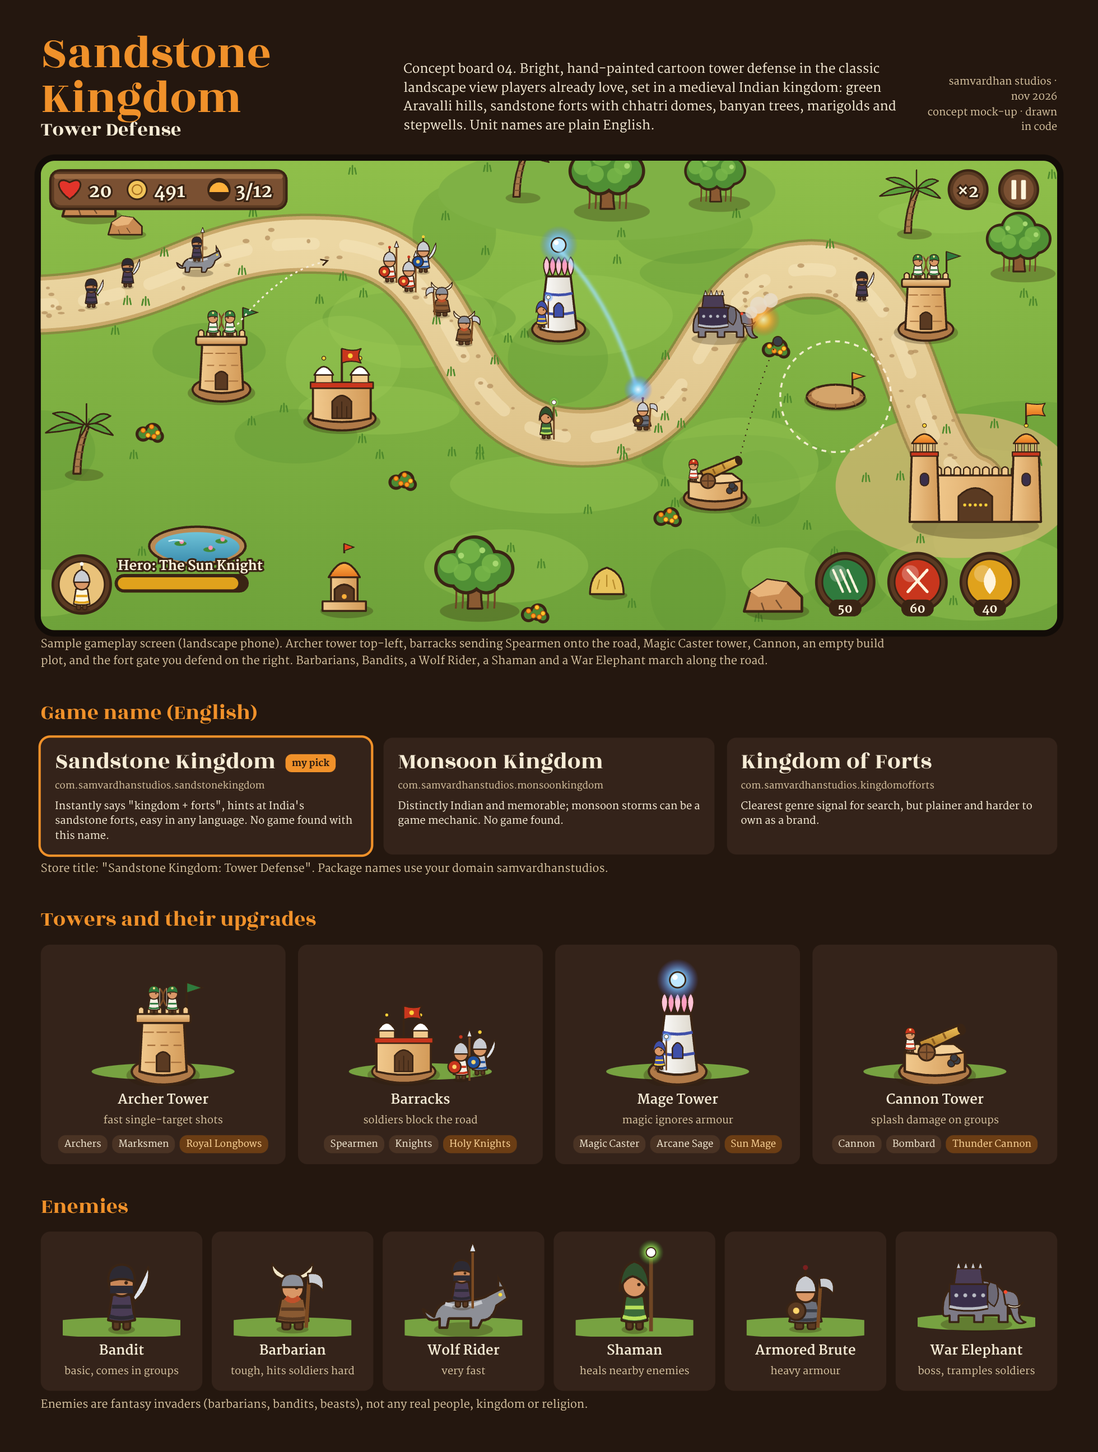
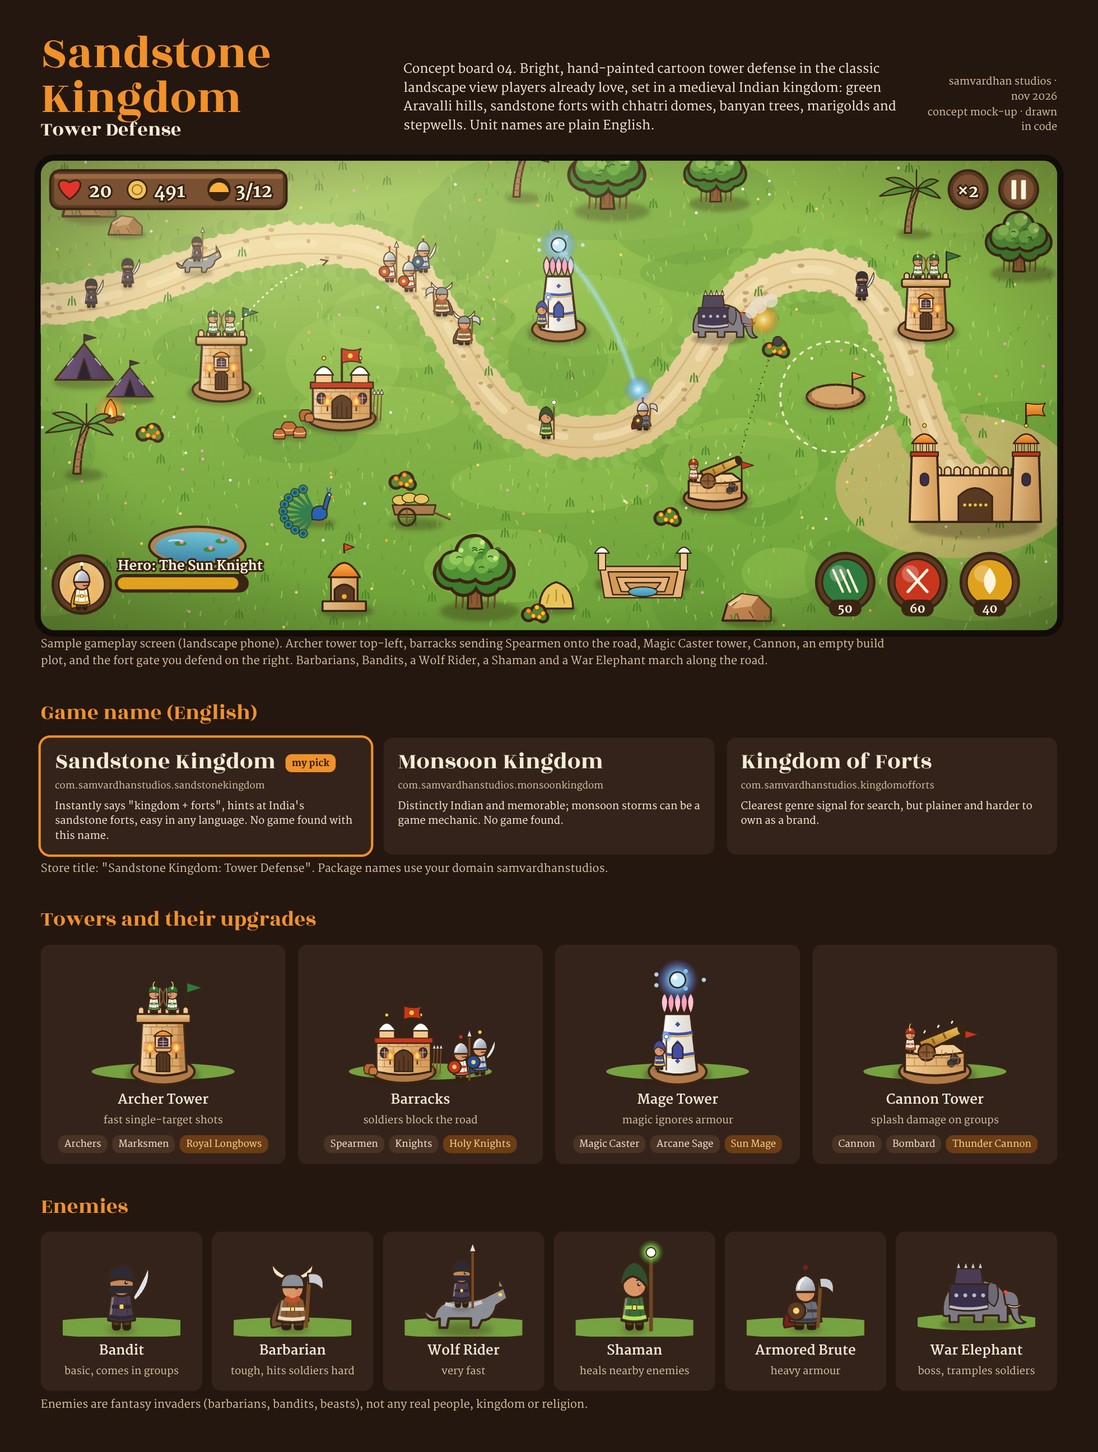
Add more detail to Sandstone Kingdom concept art
Grass, flowers, road edges and ruts, layered trees, stone blocks,
balconies, torches, lattice windows, character faces and capes,
peacock, stepwell, enemy camp, cart, pots, warm light and vignette.

Claude-Session: https://claude.ai/code/session_016KD6WBFLA1JJntey73zqeE

diff --git a/docs/style-boards/cartoon-td-concept.html b/docs/style-boards/cartoon-td-concept.html
@@ -113,10 +113,18 @@ function defs(svg) {
   rad('fire', [[0, '#fff3c4', 1], [0.4, '#ffb03a', 0.9], [1, '#e2461d', 0]]);
   const f = el('filter', { id: 'soft', x: '-20%', y: '-20%', width: '140%', height: '140%' }, d);
   el('feGaussianBlur', { stdDeviation: 1.2 }, f);
+  const b = el('filter', { id: 'blur', x: '-30%', y: '-60%', width: '160%', height: '220%' }, d);
+  el('feGaussianBlur', { stdDeviation: 1.8 }, b);
+  lin('steel', [[0, '#f4f6fa'], [0.5, '#c3c8d1'], [1, '#8d939e']], 1, 1);
+  lin('tent', [[0, '#6b4f7a'], [1, '#3f2f4c']], 1, 0);
+  const sun = el('radialGradient', { id: 'sunlight', cx: '22%', cy: '8%', r: '85%' }, d);
+  [[0, '#fff2c2', 0.38], [0.45, '#fff2c2', 0.08], [1, '#fff2c2', 0]].forEach(([o, c, op]) => el('stop', { offset: o, 'stop-color': c, 'stop-opacity': op }, sun));
+  const vig = el('radialGradient', { id: 'vignette', cx: '50%', cy: '50%', r: '75%' }, d);
+  [[0.6, '#1d1208', 0], [1, '#1d1208', 0.42]].forEach(([o, c, op]) => el('stop', { offset: o, 'stop-color': c, 'stop-opacity': op }, vig));
 }
 
 // ---------- primitives ----------
-const shadow = (p, x, y, rx, ry, op = 0.28) => el('ellipse', { cx: x, cy: y, rx, ry, fill: '#2a1d08', opacity: op }, p);
+const shadow = (p, x, y, rx, ry, op = 0.32) => el('ellipse', { cx: x, cy: y, rx, ry, fill: '#2a1d08', opacity: op, filter: 'url(#blur)' }, p);
 const outlined = (p, tag, attrs, sw = 1.6) => el(tag, { ...attrs, stroke: OUT, 'stroke-width': sw, 'stroke-linejoin': 'round' }, p);
 function blobCluster(p, circles, fill, hi) {
   // outlined union: stroked circles first, then fills on top
@@ -131,9 +139,13 @@ function banyan(p, x, y, s = 1) {
   const t = g(p, { transform: `translate(${x} ${y}) scale(${s})` });
   shadow(t, 4, 2, 30, 8);
   outlined(t, 'path', { d: 'M-5 0 Q-4 -14 -6 -24 L6 -24 Q4 -14 6 0 Z', fill: '#8a5a32' });
+  el('path', { d: 'M-2 -4 Q-3 -12 -1 -20 M2 -2 Q3 -10 1 -18', stroke: '#6e4524', 'stroke-width': 0.9, fill: 'none' }, t);
   [-14, -9, 10, 15].forEach((rx) => el('path', { d: `M${rx} -22 Q${rx + 1} -10 ${rx} 0`, stroke: '#6e4524', 'stroke-width': 1.4, fill: 'none' }, t));
-  blobCluster(t, [[-16, -30, 13], [0, -38, 16], [16, -30, 13], [-6, -24, 12], [9, -23, 11]], '#4f8f34', '#79b84a');
-  [[-10, -40], [6, -44], [16, -34]].forEach(([a, b]) => el('circle', { cx: a, cy: b, r: 2.2, fill: '#a7d870' }, t));
+  blobCluster(t, [[-18, -27, 12], [0, -33, 16], [18, -27, 12], [-8, -21, 11], [10, -20, 10]], '#3d7a2b');
+  blobCluster(t, [[-15, -32, 11], [0, -41, 14], [15, -33, 11], [-5, -30, 10], [8, -29, 10]], '#4f8f34', '#79b84a');
+  [[-14, -38, 5], [2, -48, 6], [14, -40, 5], [-4, -36, 4]].forEach(([a, b, r]) => el('circle', { cx: a, cy: b, r, fill: '#93c95a' }, t));
+  for (let i = 0; i < 9; i++) { const a = -18 + rnd() * 34, b = -46 + rnd() * 22; el('path', { d: `M${a} ${b} q2 -2 4 0`, stroke: '#2f6322', 'stroke-width': 0.9, fill: 'none' }, t); }
+  [[-10, -44], [6, -50], [16, -38]].forEach(([a, b]) => el('circle', { cx: a, cy: b, r: 1.8, fill: '#c6ec8c' }, t));
 }
 function palm(p, x, y, s = 1) {
   const t = g(p, { transform: `translate(${x} ${y}) scale(${s})` });
@@ -148,7 +160,10 @@ function rock(p, x, y, s = 1) {
   shadow(t, 3, 2, 22, 6);
   outlined(t, 'path', { d: 'M-20 2 L-16 -12 L-4 -20 L10 -18 L20 -8 L20 2 Z', fill: '#c88a52' }, 1.8);
   el('path', { d: 'M-16 -12 L-4 -20 L10 -18 L4 -10 L-10 -8 Z', fill: '#e8b47a' }, t);
-  el('path', { d: 'M2 -6 L6 0 M-8 -4 L-6 2', stroke: OUT, 'stroke-width': 1, fill: 'none', opacity: 0.6 }, t);
+  el('path', { d: 'M10 -18 L20 -8 L20 2 L8 2 L4 -10 Z', fill: '#a96e3e', opacity: 0.7 }, t);
+  el('path', { d: 'M2 -6 L6 0 M-8 -4 L-6 2 M-12 -10 L-8 -14', stroke: OUT, 'stroke-width': 1, fill: 'none', opacity: 0.6 }, t);
+  el('path', { d: 'M-14 -11 L-5 -17', stroke: '#fbe1b8', 'stroke-width': 1.4, 'stroke-linecap': 'round' }, t);
+  [[-12, 1], [16, 2]].forEach(([a, b]) => el('path', { d: `M${a} ${b} l-1 -4 M${a + 2} ${b} l1 -5`, stroke: '#4f8a2c', 'stroke-width': 1.2 }, t));
 }
 function marigold(p, x, y) {
   const t = g(p, { transform: `translate(${x} ${y})` });
@@ -192,24 +207,103 @@ function fence(p, x1, y1, x2, y2) {
   }
 }
 
+function peacock(p, x, y, s = 1) {
+  const t = g(p, { transform: `translate(${x} ${y}) scale(${s})` });
+  shadow(t, -4, 1, 16, 3.5);
+  for (let i = 0; i < 9; i++) {
+    const a = Math.PI * (0.62 + i * 0.095);
+    const ex = Math.cos(a) * 24 - 4, ey = Math.sin(a) * -18 - 8;
+    el('path', { d: `M-4 -6 L${ex} ${ey}`, stroke: '#2e7a4a', 'stroke-width': 2.4 }, t);
+    outlined(t, 'circle', { cx: ex, cy: ey, r: 3.2, fill: '#1f8a6e' }, 0.6);
+    el('circle', { cx: ex, cy: ey, r: 1.4, fill: '#1c3e9a' }, t);
+  }
+  outlined(t, 'path', { d: 'M-6 -2 Q-8 -12 0 -12 Q6 -12 5 -4 Q2 0 -6 -2 Z', fill: '#1f5fb8' }, 1);
+  outlined(t, 'path', { d: 'M2 -10 Q4 -20 6 -22 Q9 -22 8 -19 Q6 -15 5 -9 Z', fill: '#1f5fb8' }, 1);
+  el('path', { d: 'M8 -20 l3 1 l-3 1', fill: '#e0a21c' }, t);
+  el('circle', { cx: 7, cy: -20.5, r: 0.7, fill: '#ffffff' }, t);
+  el('path', { d: 'M6 -22 l-1 -4 M7 -22 l1 -4', stroke: '#1f5fb8', 'stroke-width': 0.8 }, t);
+  el('path', { d: 'M-2 -1 V3 M2 -1 V3', stroke: '#8a6a3a', 'stroke-width': 1 }, t);
+}
+function stepwell(p, x, y) {
+  const t = g(p, { transform: `translate(${x} ${y})` });
+  shadow(t, 0, 2, 40, 10);
+  for (let i = 0; i < 4; i++) {
+    const w = 72 - i * 14, h = 26 - i * 5;
+    outlined(t, 'path', { d: `M${-w / 2} ${-h / 2 + i * 2} H${w / 2} L${w / 2 - 4} ${h / 2} H${-w / 2 + 4} Z`, fill: i % 2 ? '#d39a58' : '#e8b47a' }, 1.1);
+  }
+  el('ellipse', { cx: 0, cy: 8, rx: 12, ry: 4, fill: 'url(#water)', stroke: OUT, 'stroke-width': 1 }, t);
+  for (const cx of [-34, 34]) {
+    outlined(t, 'rect', { x: cx - 3, y: -24, width: 6, height: 14, fill: '#f1c98d' }, 1);
+    outlined(t, 'path', { d: `M${cx - 6} -24 Q${cx} -34 ${cx + 6} -24 Z`, fill: '#ffffff' }, 1);
+  }
+}
+function tent(p, x, y, s = 1) {
+  const t = g(p, { transform: `translate(${x} ${y}) scale(${s})` });
+  shadow(t, 0, 2, 26, 6);
+  outlined(t, 'path', { d: 'M-24 0 L0 -30 L24 0 Z', fill: 'url(#tent)' }, 1.6);
+  outlined(t, 'path', { d: 'M-6 0 L0 -18 L6 0 Z', fill: '#1d1426' }, 1);
+  el('path', { d: 'M0 -30 V-38', stroke: OUT, 'stroke-width': 1.4 }, t);
+  outlined(t, 'path', { d: 'M0 -38 L10 -35 L0 -32 Z', fill: '#2d2a33' }, 0.7);
+  el('path', { d: 'M-14 -12 L-9 -18 M14 -12 L9 -18', stroke: '#b9bcc4', 'stroke-width': 1 }, t);
+}
+function campfire(p, x, y) {
+  const t = g(p, { transform: `translate(${x} ${y})` });
+  el('circle', { cx: 0, cy: -6, r: 14, fill: 'url(#fire)', opacity: 0.7 }, t);
+  [[-6, 0], [6, 0], [0, 2]].forEach(([a, b]) => outlined(t, 'ellipse', { cx: a, cy: b, rx: 5, ry: 2, fill: '#6e4524' }, 0.8));
+  outlined(t, 'path', { d: 'M-5 -1 Q-6 -10 0 -16 Q6 -10 5 -1 Z', fill: '#ff8a1e' }, 0.8);
+  el('path', { d: 'M-2 -1 Q-2 -7 0 -10 Q2 -7 2 -1 Z', fill: '#ffe28a' }, t);
+}
+function pots(p, x, y) {
+  const t = g(p, { transform: `translate(${x} ${y})` });
+  [[0, 0, 1], [9, 2, 0.8], [-8, 3, 0.75]].forEach(([a, b, s]) => {
+    shadow(t, a, b + 1, 6 * s, 2);
+    outlined(t, 'path', { d: `M${a - 6 * s} ${b} Q${a - 8 * s} ${b - 8 * s} ${a - 3 * s} ${b - 11 * s} H${a + 3 * s} Q${a + 8 * s} ${b - 8 * s} ${a + 6 * s} ${b} Z`, fill: '#c0662e' }, 0.9);
+    el('path', { d: `M${a - 6 * s} ${b - 5 * s} Q${a} ${b - 3 * s} ${a + 6 * s} ${b - 5 * s}`, stroke: '#f3cf97', 'stroke-width': 1, fill: 'none' }, t);
+  });
+}
+function cart(p, x, y) {
+  const t = g(p, { transform: `translate(${x} ${y})` });
+  shadow(t, 0, 2, 22, 5);
+  outlined(t, 'path', { d: 'M-18 -6 H14 L16 -14 H-20 Z', fill: '#a8794a' }, 1.2);
+  [[-14, -18], [-6, -20], [4, -19]].forEach(([a, b]) => outlined(t, 'ellipse', { cx: a, cy: b, rx: 6, ry: 4, fill: '#e9c45c' }, 0.8));
+  outlined(t, 'circle', { cx: -8, cy: -4, r: 7, fill: 'none' }, 1.8);
+  el('path', { d: 'M-8 -11 V3 M-15 -4 H-1', stroke: '#6e4524', 'stroke-width': 1 }, t);
+  el('path', { d: 'M14 -8 L28 -2', stroke: '#6e4524', 'stroke-width': 1.8 }, t);
+}
+
 // ---------- people ----------
 function person(p, x, y, o = {}) {
   const { s = 1, skin = '#d99766', tunic = '#f4efe2', trim = '#d8452a', head = 'turban', headColor = '#f0912a',
     weapon = null, shield = null, flip = false, big = 1 } = o;
   const t = g(p, { transform: `translate(${x} ${y}) scale(${flip ? -s : s} ${s})` });
   shadow(t, 0, 1, 7 * big, 2.4);
+  if (o.aura) el('circle', { cx: 0, cy: -16, r: 20, fill: 'url(#fire)', opacity: 0.35 }, t);
+  if (o.cape) outlined(t, 'path', { d: `M${-5 * big} -18 Q${-11 * big} -6 ${-9 * big} 0 L${-2 * big} -2 Z`, fill: o.cape }, 1.1);
   outlined(t, 'rect', { x: -4.5 * big, y: -6, width: 3.6 * big, height: 7, rx: 1.4, fill: '#5a3a22' }, 1.1);
   outlined(t, 'rect', { x: 0.9 * big, y: -6, width: 3.6 * big, height: 7, rx: 1.4, fill: '#5a3a22' }, 1.1);
+  el('rect', { x: -4.5 * big, y: -1.5, width: 3.6 * big, height: 2.5, rx: 1, fill: '#2e1e12' }, t);
+  el('rect', { x: 0.9 * big, y: -1.5, width: 3.6 * big, height: 2.5, rx: 1, fill: '#2e1e12' }, t);
   outlined(t, 'path', { d: `M${-7 * big} -4 Q0 -2 ${7 * big} -4 L${5 * big} -17 Q0 -19 ${-5 * big} -17 Z`, fill: tunic }, 1.3);
+  el('path', { d: `M${-2 * big} -16 L${-3 * big} -5 M${2.4 * big} -16 L${3.4 * big} -5`, stroke: OUT, 'stroke-width': 0.5, opacity: 0.45 }, t);
+  el('path', { d: `M${-4.6 * big} -16 L${-6 * big} -5`, stroke: '#ffffff', 'stroke-width': 1.2, opacity: 0.35 }, t);
   el('path', { d: `M${-6.4 * big} -6 Q0 -4 ${6.4 * big} -6`, stroke: trim, 'stroke-width': 2, fill: 'none' }, t);
   el('rect', { x: -5 * big, y: -12, width: 10 * big, height: 2, fill: trim }, t);
+  el('rect', { x: -1.2, y: -12.4, width: 2.4, height: 2.8, rx: 0.6, fill: '#ffd66b', stroke: OUT, 'stroke-width': 0.4 }, t);
   outlined(t, 'circle', { cx: 0, cy: -23, r: 6.5, fill: skin }, 1.3);
+  el('circle', { cx: 3.6, cy: -20.6, r: 1.5, fill: '#e8745a', opacity: 0.45 }, t);
   el('circle', { cx: 2.4, cy: -23.5, r: 0.9, fill: OUT }, t);
+  el('circle', { cx: 2.7, cy: -23.8, r: 0.3, fill: '#ffffff' }, t);
+  el('path', { d: 'M1 -25.6 q1.6 -0.9 3 -0.2', stroke: OUT, 'stroke-width': 0.7, fill: 'none' }, t);
+  if (o.moustache) el('path', { d: 'M1.2 -20.4 q1.6 1 3 0 q1 0.9 2.2 -0.4', stroke: OUT, 'stroke-width': 0.9, fill: 'none', 'stroke-linecap': 'round' }, t);
   if (head === 'turban') {
     outlined(t, 'path', { d: 'M-7 -24 Q-7 -33 0 -33 Q7 -33 7 -24 Q0 -27 -7 -24 Z', fill: headColor }, 1.2);
+    el('path', { d: 'M-6 -27 Q0 -31 6 -28 M-6.5 -25.5 Q0 -29 6.5 -26', stroke: OUT, 'stroke-width': 0.5, fill: 'none', opacity: 0.5 }, t);
     el('circle', { cx: 0, cy: -30, r: 1.4, fill: '#ffe08a' }, t);
+    el('path', { d: 'M-0.5 -31 Q-2 -36 1 -38', stroke: '#ffe08a', 'stroke-width': 1, fill: 'none' }, t);
   } else if (head === 'helmet') {
-    outlined(t, 'path', { d: 'M-7 -23 Q-7 -32 0 -34 Q7 -32 7 -23 Z', fill: '#c9ccd2' }, 1.2);
+    outlined(t, 'path', { d: 'M-7 -23 Q-7 -32 0 -34 Q7 -32 7 -23 Z', fill: 'url(#steel)' }, 1.2);
+    el('path', { d: 'M-4.5 -25 Q-4 -30 -1 -31.5', stroke: '#ffffff', 'stroke-width': 1.2, fill: 'none', opacity: 0.8 }, t);
+    el('path', { d: 'M-7 -23.5 H7', stroke: OUT, 'stroke-width': 0.8 }, t);
     el('path', { d: 'M0 -34 V-38', stroke: OUT, 'stroke-width': 1.6 }, t);
     el('circle', { cx: 0, cy: -39, r: 1.6, fill: headColor }, t);
   } else if (head === 'hood') {
@@ -244,15 +338,15 @@ function person(p, x, y, o = {}) {
   }
   return t;
 }
-const ARCHER = { tunic: '#f4efe2', trim: '#2f7a3d', headColor: '#2f7a3d', weapon: 'bow' };
-const SPEAR = { tunic: '#f4efe2', trim: '#c8361d', head: 'helmet', headColor: '#c8361d', weapon: 'spear', shield: '#c8361d' };
-const KNIGHT = { tunic: '#c9ccd2', trim: '#1f4f9a', head: 'helmet', headColor: '#ffd23a', weapon: 'sword', shield: '#1f4f9a' };
-const HOLY = { tunic: '#fff7e0', trim: '#e0a21c', head: 'helmet', headColor: '#ffffff', weapon: 'sword', shield: '#e0a21c' };
+const ARCHER = { tunic: '#f4efe2', trim: '#2f7a3d', headColor: '#2f7a3d', weapon: 'bow', moustache: true };
+const SPEAR = { tunic: '#f4efe2', trim: '#c8361d', head: 'helmet', headColor: '#c8361d', weapon: 'spear', shield: '#c8361d', moustache: true };
+const KNIGHT = { tunic: '#c9ccd2', trim: '#1f4f9a', head: 'helmet', headColor: '#ffd23a', weapon: 'sword', shield: '#1f4f9a', cape: '#1f4f9a', moustache: true };
+const HOLY = { tunic: '#fff7e0', trim: '#e0a21c', head: 'helmet', headColor: '#ffffff', weapon: 'sword', shield: '#e0a21c', cape: '#e0a21c', aura: true, moustache: true };
 const MAGE = { tunic: '#3f4fa8', trim: '#ffd23a', head: 'hood', headColor: '#3f4fa8', weapon: 'staff' };
 const BANDIT = { tunic: '#4a3c55', trim: '#2d2a33', head: 'mask', headColor: '#2d2a33', weapon: 'sword', skin: '#c98758' };
-const BARBARIAN = { tunic: '#8a5a32', trim: '#5a3a22', head: 'horns', weapon: 'axe', skin: '#d99766', big: 1.35 };
+const BARBARIAN = { tunic: '#8a5a32', trim: '#e9dcc0', head: 'horns', weapon: 'axe', skin: '#d99766', big: 1.35, cape: '#6b4a2e' };
 const SHAMAN = { tunic: '#3d6b3a', trim: '#b8e05a', head: 'hood', headColor: '#2f4f2d', weapon: 'staff', orb: 'url(#glowG)' };
-const BRUTE = { tunic: '#6b6f7a', trim: '#3a3d45', head: 'helmet', headColor: '#7a1f1f', weapon: 'axe', shield: '#5a3a22', big: 1.5 };
+const BRUTE = { tunic: '#6b6f7a', trim: '#3a3d45', head: 'helmet', headColor: '#7a1f1f', weapon: 'axe', shield: '#5a3a22', big: 1.5, cape: '#7a1f1f' };
 
 function wolfRider(p, x, y, s = 1, flip = false) {
   const t = g(p, { transform: `translate(${x} ${y}) scale(${flip ? -s : s} ${s})` });
@@ -290,6 +384,26 @@ function plot(p, x, y) {
   el('path', { d: 'M14 -20 L24 -17 L14 -14 Z', fill: 'url(#saffron)', stroke: OUT, 'stroke-width': 0.8 }, t);
   return t;
 }
+function stones(t, x, y, w, h) {
+  for (let row = 0; row < Math.floor(h / 6); row++) {
+    const yy = y + 4 + row * 6;
+    el('path', { d: `M${x + 1} ${yy} H${x + w - 1}`, stroke: '#a8723e', 'stroke-width': 0.7, opacity: 0.8 }, t);
+    for (let xx = x + 3 + (row % 2) * 4; xx < x + w - 2; xx += 8) el('path', { d: `M${xx} ${yy} v-6`, stroke: '#a8723e', 'stroke-width': 0.6, opacity: 0.7 }, t);
+  }
+}
+function torch(t, x, y) {
+  el('path', { d: `M${x} ${y} v-5`, stroke: '#5a3a22', 'stroke-width': 1.4 }, t);
+  el('circle', { cx: x, cy: y - 8, r: 6, fill: 'url(#fire)', opacity: 0.9 }, t);
+  el('path', { d: `M${x} ${y - 5} q-2 -3 0 -6 q2 3 0 6 Z`, fill: '#ffe28a' }, t);
+}
+function jharokha(t, x, y) {
+  // carved overhanging balcony with a little dome
+  outlined(t, 'path', { d: `M${x - 7} ${y + 6} H${x + 7} L${x + 5} ${y + 9} H${x - 5} Z`, fill: '#e8b47a' }, 0.9);
+  outlined(t, 'rect', { x: x - 6, y: y - 3, width: 12, height: 9, fill: '#f3cf97' }, 0.9);
+  el('path', { d: `M${x - 4} ${y + 5} V${y - 1} Q${x} ${y - 4} ${x + 4} ${y - 1} V${y + 5} Z`, fill: '#3a2f4a' }, t);
+  el('path', { d: `M${x - 3} ${y + 1} H${x + 3} M${x - 3} ${y + 3} H${x + 3} M${x} ${y - 2} V${y + 5}`, stroke: '#e8b47a', 'stroke-width': 0.5 }, t);
+  outlined(t, 'path', { d: `M${x - 7} ${y - 3} Q${x} ${y - 11} ${x + 7} ${y - 3} Z`, fill: 'url(#saffron)' }, 0.9);
+}
 function base(t, rx = 24) {
   shadow(t, 0, 3, rx + 4, 10);
   outlined(t, 'ellipse', { cx: 0, cy: 0, rx, ry: 10, fill: '#b07a48' }, 1.8);
@@ -298,8 +412,13 @@ function archerTower(p, x, y, s = 1) {
   const t = g(p, { transform: `translate(${x} ${y}) scale(${s})` });
   base(t);
   outlined(t, 'path', { d: 'M-18 0 L-16 -38 H16 L18 0 Q0 6 -18 0 Z', fill: 'url(#sand)' }, 1.8);
-  [-10, 0, 10].forEach((bx) => el('path', { d: `M${bx - 4} ${-8 + Math.abs(bx) * 0.1} h8 M${bx - 2} -20 h6 M${bx - 5} -30 h8`, stroke: '#a8723e', 'stroke-width': 1 }, t));
+  stones(t, -16, -38, 32, 38);
+  el('path', { d: 'M-16 -37 L-17.6 -1 L-12 -0.4 L-11 -37 Z', fill: '#ffffff', opacity: 0.18 }, t);
+  el('path', { d: 'M11 -37 L12.4 -0.6 L18 0 L16 -38 Z', fill: '#7a4a22', opacity: 0.25 }, t);
   outlined(t, 'path', { d: 'M-5 0 V-12 Q0 -18 5 -12 V0 Z', fill: '#5a3a22' }, 1.2);
+  el('path', { d: 'M-2.5 -1 V-12 M0 -1 V-14 M2.5 -1 V-12', stroke: '#3a2414', 'stroke-width': 0.6 }, t);
+  jharokha(t, 0, -24);
+  torch(t, -10, -10); torch(t, 10, -10);
   outlined(t, 'rect', { x: -21, y: -44, width: 42, height: 7, rx: 1.5, fill: 'url(#sandV)' }, 1.6);
   for (let i = -19; i <= 15; i += 6.8) outlined(t, 'path', { d: `M${i} -44 V-48 Q${i + 2.2} -51 ${i + 4.4} -48 V-44 Z`, fill: '#f1c98d' }, 1.1);
   person(t, -7, -45, { ...ARCHER, s: 0.62 });
@@ -312,6 +431,14 @@ function barracks(p, x, y, s = 1) {
   const t = g(p, { transform: `translate(${x} ${y}) scale(${s})` });
   base(t, 28);
   outlined(t, 'path', { d: 'M-24 0 V-26 H24 V0 Q0 6 -24 0 Z', fill: 'url(#sand)' }, 1.8);
+  stones(t, -24, -26, 48, 26);
+  el('path', { d: 'M-24 -26 V0 L-19 1 V-26 Z', fill: '#ffffff', opacity: 0.16 }, t);
+  for (const wx of [-17, 17]) { outlined(t, 'rect', { x: wx - 3.5, y: -21, width: 7, height: 9, rx: 3.5, fill: '#3a2f4a' }, 0.9); el('path', { d: `M${wx - 3} -17 H${wx + 3} M${wx} -20 V-12`, stroke: '#e8b47a', 'stroke-width': 0.6 }, t); }
+  torch(t, -12, -6); torch(t, 12, -6);
+  // spear rack and pots by the wall
+  [26, 29, 32].forEach((sx) => { el('path', { d: `M${sx} 2 L${sx + 1} -20`, stroke: '#7a4a22', 'stroke-width': 1 }, t); outlined(t, 'path', { d: `M${sx + 1} -24 l1.6 4 h-3.2 Z`, fill: '#dfe3ea' }, 0.5); });
+  outlined(t, 'path', { d: 'M-34 2 Q-37 -4 -33 -7 H-27 Q-23 -4 -26 2 Z', fill: '#b5652d' }, 0.9);
+  outlined(t, 'path', { d: 'M-30 3 Q-32 -2 -29 -4 H-25 Q-22 -2 -24 3 Z', fill: '#c8763a' }, 0.9);
   outlined(t, 'path', { d: 'M-8 0 V-14 Q0 -24 8 -14 V0 Z', fill: '#5a3a22' }, 1.3);
   el('path', { d: 'M-4 -10 V0 M0 -14 V0 M4 -10 V0', stroke: '#3a2414', 'stroke-width': 0.8 }, t);
   outlined(t, 'rect', { x: -26, y: -30, width: 52, height: 5, fill: '#c8361d' }, 1.3);
@@ -330,6 +457,10 @@ function mageTower(p, x, y, s = 1) {
   base(t, 22);
   outlined(t, 'path', { d: 'M-15 0 L-10 -44 H10 L15 0 Q0 5 -15 0 Z', fill: 'url(#marble)' }, 1.8);
   el('path', { d: 'M-13 -14 Q0 -11 13 -14 M-11.5 -30 Q0 -27 11.5 -30', stroke: '#3f4fa8', 'stroke-width': 2.2, fill: 'none' }, t);
+  el('path', { d: 'M-13 -12 Q0 -9 13 -12 M-11.5 -28 Q0 -25 11.5 -28', stroke: '#e0a21c', 'stroke-width': 0.9, fill: 'none' }, t);
+  el('path', { d: 'M-14 -1 L-9.6 -43 L-6 -43 L-9 -1 Z', fill: '#ffffff', opacity: 0.45 }, t);
+  for (let i = 0; i < 5; i++) { const a = (i / 5) * Math.PI * 2; el('circle', { cx: Math.cos(a) * 20, cy: -70 + Math.sin(a) * 7, r: 1.6, fill: '#bfe8ff', opacity: 0.9 }, t); }
+  for (const y of [-8, -22, -36]) el('path', { d: `M-2 ${y} l2 -2 l2 2 l-2 2 Z`, fill: '#3f4fa8' }, t);
   outlined(t, 'path', { d: 'M-4 -18 Q0 -26 4 -18 V-10 H-4 Z', fill: '#3f4fa8' }, 1);
   // lotus petals around the top
   for (let i = -2; i <= 2; i++) outlined(t, 'path', { d: `M${i * 5} -44 Q${i * 5 - 5} -54 ${i * 5} -60 Q${i * 5 + 5} -54 ${i * 5} -44 Z`, fill: i % 2 ? '#ff9fc0' : '#ffc3d6' }, 1);
@@ -350,6 +481,11 @@ function cannonTower(p, x, y, s = 1) {
   outlined(t, 'circle', { cx: -6, cy: -14, r: 6, fill: '#8a5a32' }, 1.4);
   el('path', { d: 'M-6 -20 V-8 M-12 -14 H0', stroke: '#5a3a22', 'stroke-width': 1 }, t);
   [[-14, -8], [-10, -10], [-12, -12]].forEach(([a, b]) => outlined(t, 'circle', { cx: a + 26, cy: b + 2, r: 2.6, fill: '#3a3d45' }, 0.8));
+  stones(t, -22, -14, 44, 14);
+  [-16, -8, 0, 8, 16].forEach((rx) => el('circle', { cx: rx, cy: -13, r: 0.9, fill: '#7a4a22' }, t));
+  el('path', { d: 'M-8 -28 l1 -2 M2 -32 l1 -2 M12 -35 l1 -2', stroke: '#fff3c4', 'stroke-width': 1.2 }, t);
+  el('path', { d: 'M22 -2 V-30', stroke: OUT, 'stroke-width': 1.4 }, t);
+  outlined(t, 'path', { d: 'M22 -30 L32 -27 L22 -24 Z', fill: '#c8361d' }, 0.7);
   person(t, -18, -14, { ...SPEAR, s: 0.55, weapon: null, shield: null, head: 'turban', headColor: '#c8361d' });
   return t;
 }
@@ -429,6 +565,8 @@ function scene() {
   // big soft colour patches for painterly ground
   const ground = g(svg);
   for (let i = 0; i < 26; i++) el('ellipse', { cx: rnd() * 844, cy: rnd() * 390, rx: 30 + rnd() * 60, ry: 14 + rnd() * 26, fill: rnd() > 0.5 ? '#9ccb55' : '#5f9433', opacity: 0.35 }, ground);
+  // grass blades and tiny flowers everywhere (kept off the road below)
+  const grassLayer = g(svg);
   // a sandy clearing and a low hill
   el('ellipse', { cx: 760, cy: 270, rx: 100, ry: 60, fill: '#d9b878', opacity: 0.7 }, ground);
   el('ellipse', { cx: 470, cy: 26, rx: 140, ry: 40, fill: '#7fb145' }, ground);
@@ -438,7 +576,9 @@ function scene() {
   el('path', { d: ROAD, stroke: '#8a6a3a', 'stroke-width': 50, fill: 'none', 'stroke-linecap': 'round', opacity: 0.55 }, svg);
   el('path', { d: ROAD, stroke: '#c9a86a', 'stroke-width': 46, fill: 'none', 'stroke-linecap': 'round' }, svg);
   el('path', { d: ROAD, stroke: 'url(#road)', 'stroke-width': 40, fill: 'none', 'stroke-linecap': 'round' }, svg);
-  el('path', { d: ROAD, stroke: '#f6e6bd', 'stroke-width': 10, fill: 'none', 'stroke-linecap': 'round', opacity: 0.5, 'stroke-dasharray': '30 26' }, svg);
+  el('path', { d: ROAD, stroke: '#c2a066', 'stroke-width': 18, fill: 'none', 'stroke-linecap': 'round', opacity: 0.55 }, svg);
+  el('path', { d: ROAD, stroke: 'url(#road)', 'stroke-width': 15, fill: 'none', 'stroke-linecap': 'round' }, svg);
+  el('path', { d: ROAD, stroke: '#f6e6bd', 'stroke-width': 6, fill: 'none', 'stroke-linecap': 'round', opacity: 0.5, 'stroke-dasharray': '30 26' }, svg);
   const pebbles = g(svg);
   const pathEl = el('path', { d: ROAD, fill: 'none' }, svg);
   const L = pathEl.getTotalLength();
@@ -447,6 +587,30 @@ function scene() {
     el('ellipse', { cx: pt.x + (rnd() - 0.5) * 34, cy: pt.y + (rnd() - 0.5) * 30, rx: 1.4 + rnd() * 1.6, ry: 1 + rnd(), fill: '#b89462', opacity: 0.8 }, pebbles);
   }
   const at = (d) => pathEl.getPointAtLength(d * L);
+  const samples = Array.from({ length: 220 }, (_, i) => pathEl.getPointAtLength((i / 219) * L));
+  const nearRoad = (x, y, r = 26) => samples.some((pt) => Math.hypot(pt.x - x, pt.y - y) < r);
+  for (let i = 0; i < 1400; i++) {
+    const x = rnd() * 844, y = rnd() * 390;
+    if (nearRoad(x, y)) continue;
+    const c = rnd() > 0.5 ? '#5d9632' : '#a6d462';
+    el('path', { d: `M${x} ${y} q${(rnd() - 0.5) * 3} -3 ${(rnd() - 0.5) * 4} -${3 + rnd() * 3}`, stroke: c, 'stroke-width': 0.9, fill: 'none', opacity: 0.85 }, grassLayer);
+  }
+  for (let i = 0; i < 160; i++) {
+    const x = rnd() * 844, y = rnd() * 390;
+    if (nearRoad(x, y)) continue;
+    const c = ['#ffffff', '#ffe066', '#ff9fc0', '#ffb14a'][Math.floor(rnd() * 4)];
+    el('circle', { cx: x, cy: y, r: 1.1, fill: c }, grassLayer);
+  }
+  // grassy, uneven road edges
+  const edge = g(svg);
+  for (let i = 0; i < samples.length - 1; i += 1) {
+    const a = samples[i], b = samples[i + 1];
+    const nx = -(b.y - a.y), ny = b.x - a.x, n = Math.hypot(nx, ny) || 1;
+    for (const side of [-1, 1]) {
+      const r = 3 + rnd() * 3.5;
+      el('circle', { cx: a.x + (nx / n) * side * (21 + rnd() * 2), cy: a.y + (ny / n) * side * (21 + rnd() * 2), r, fill: rnd() > 0.5 ? '#7fb145' : '#89bb4c' }, edge);
+    }
+  }
 
   // scenery (painted back to front)
   const back = g(svg);
@@ -456,6 +620,10 @@ function scene() {
   palm(back, 720, 60, 0.9); banyan(back, 812, 92, 0.9);
   marigold(back, 190, 26); marigold(back, 610, 160); marigold(back, 300, 270); marigold(back, 520, 300);
   pond(back, 130, 320);
+  peacock(back, 232, 300, 1.1);
+  tent(back, 36, 182, 1); tent(back, 74, 196, 0.8); campfire(back, 58, 214);
+  cart(back, 312, 300); pots(back, 206, 228);
+  stepwell(back, 500, 350);
 
   // towers and plots
   const mid = g(svg);
@@ -502,8 +670,11 @@ function scene() {
   fortGate(svg, 776, 300, 0.88);
   // front decoration
   const front = g(svg);
-  banyan(front, 360, 372, 1.1); haystack(front, 470, 360); shrine(front, 252, 372);
-  rock(front, 608, 372, 1.2); palm(front, 30, 260, 1); marigold(front, 410, 380); marigold(front, 90, 230);
+  banyan(front, 360, 372, 1.1); haystack(front, 428, 372); shrine(front, 252, 372);
+  rock(front, 586, 380, 1.0); palm(front, 30, 260, 1); marigold(front, 410, 380); marigold(front, 90, 230);
+  // warm sunlight from the top-left and a soft vignette
+  el('rect', { x: 0, y: 0, width: 844, height: 390, fill: 'url(#sunlight)' }, svg);
+  el('rect', { x: 0, y: 0, width: 844, height: 390, fill: 'url(#vignette)' }, svg);
   hud(svg);
 }
 
